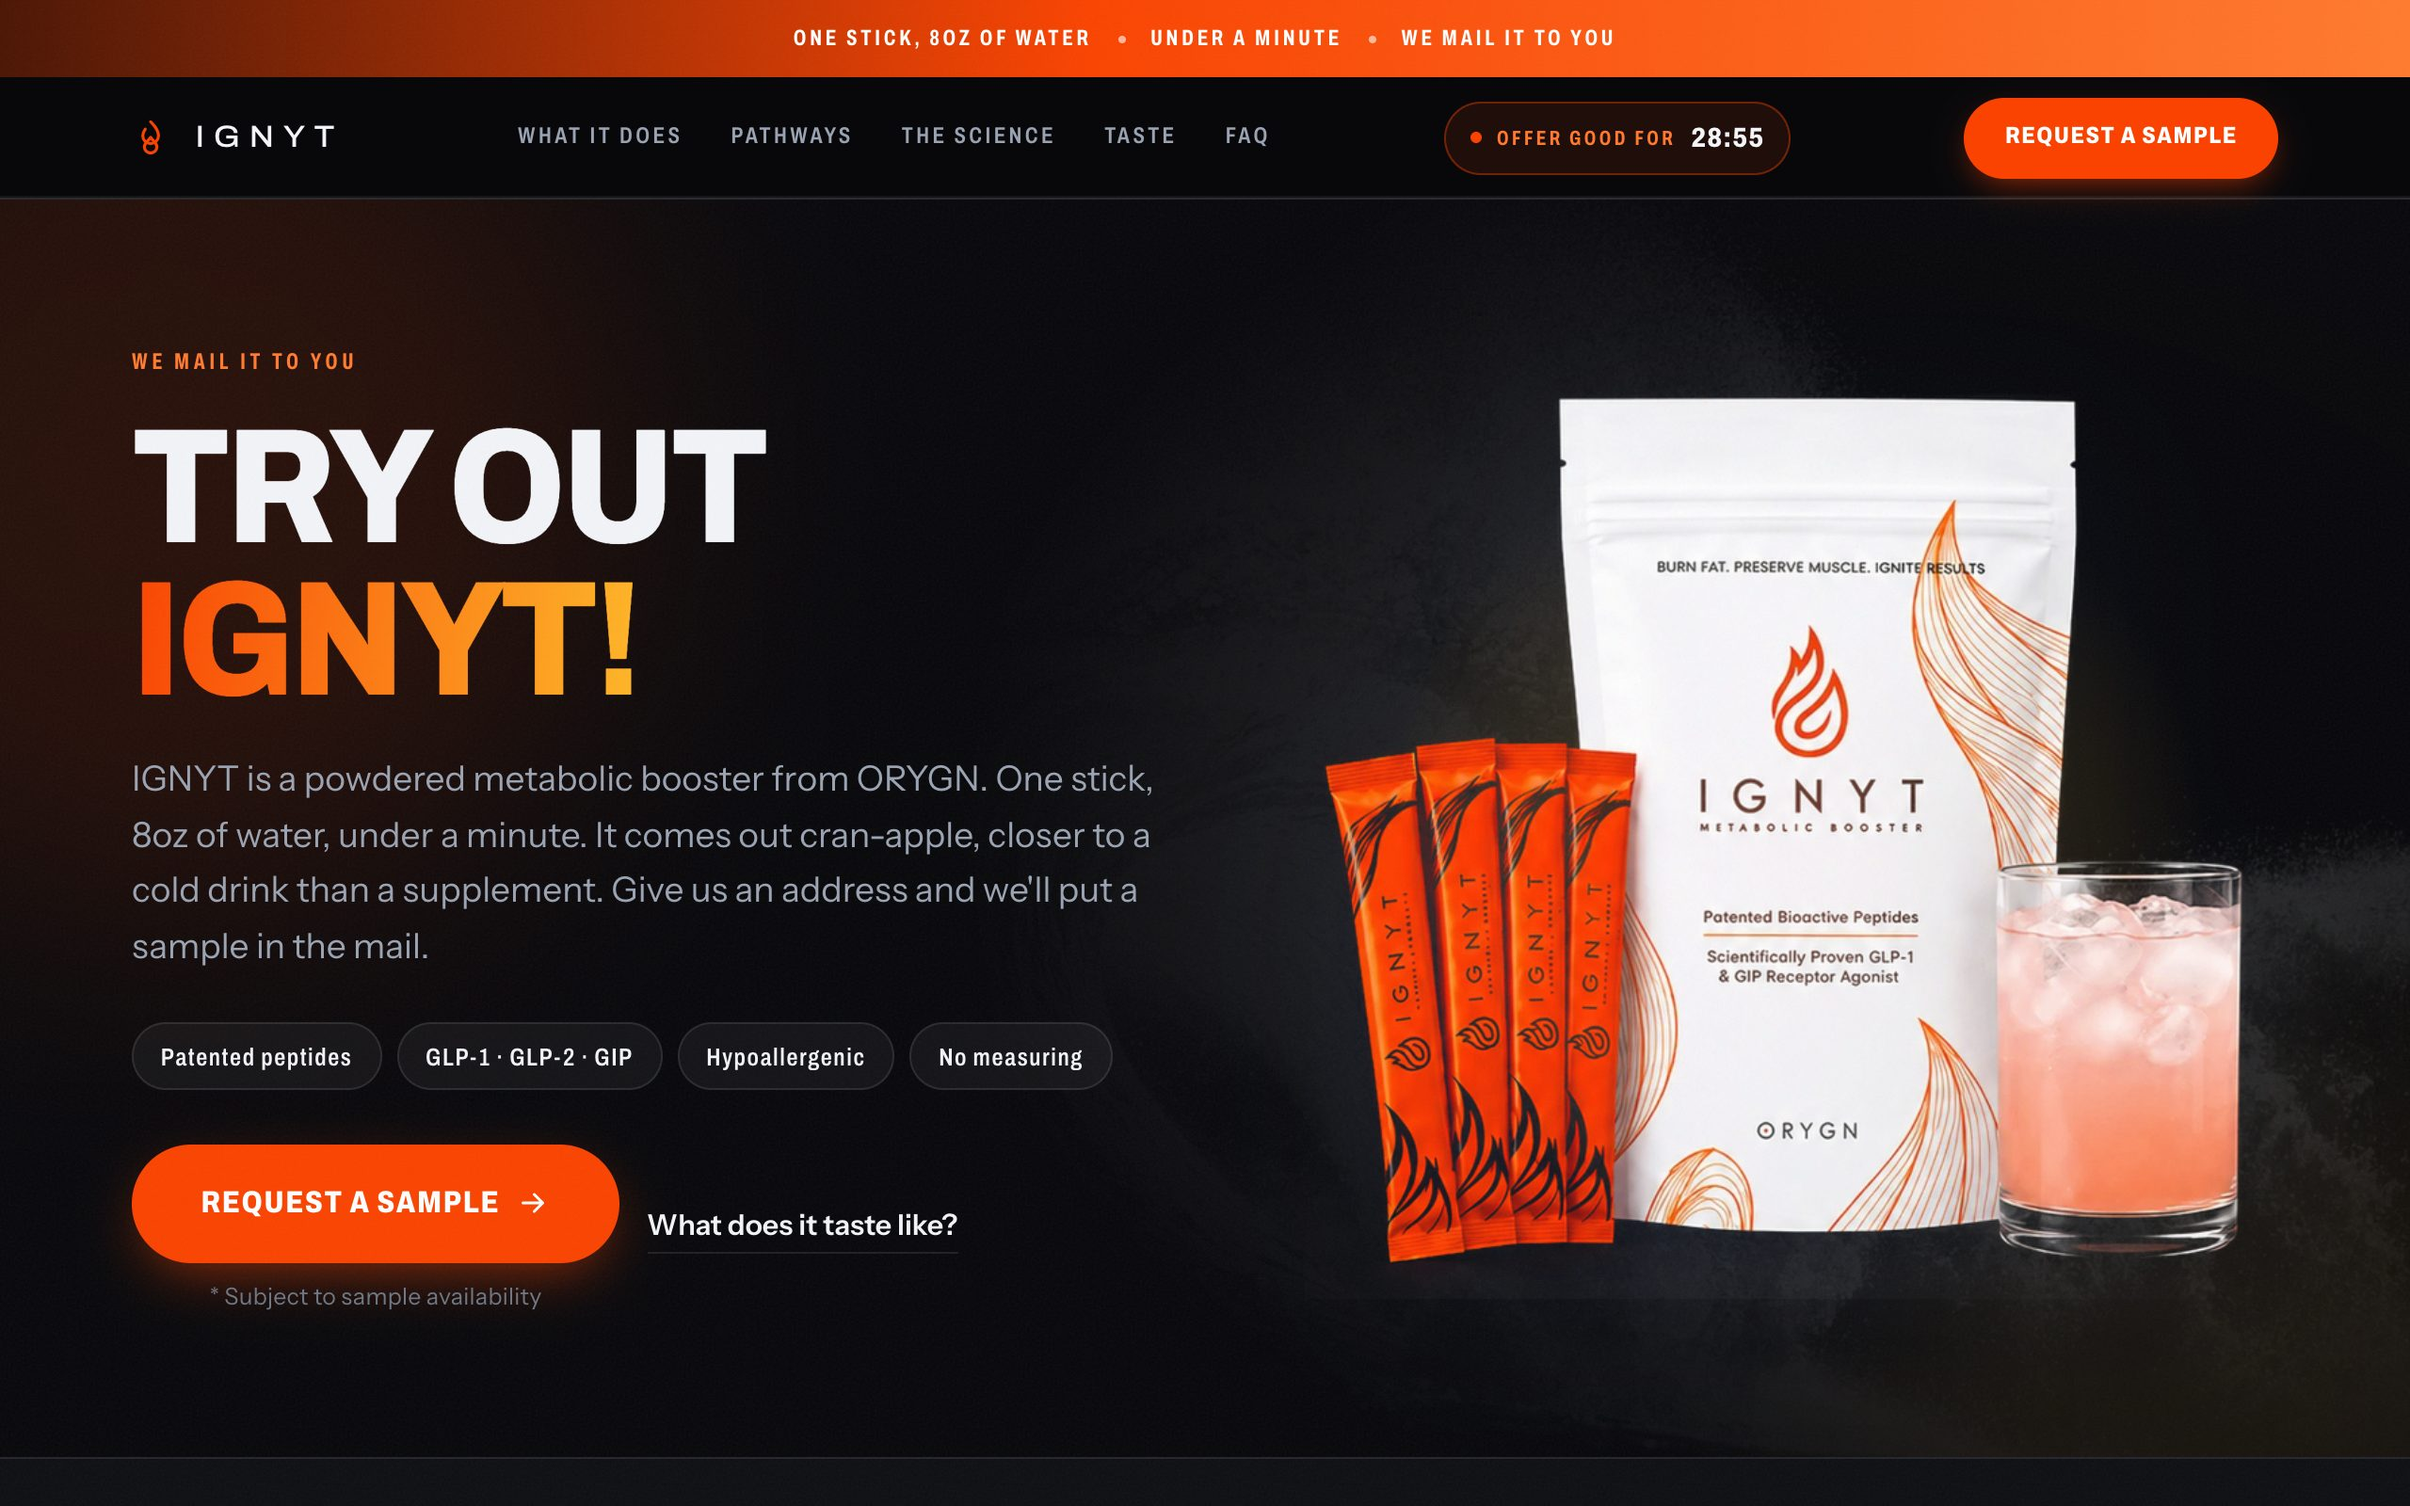
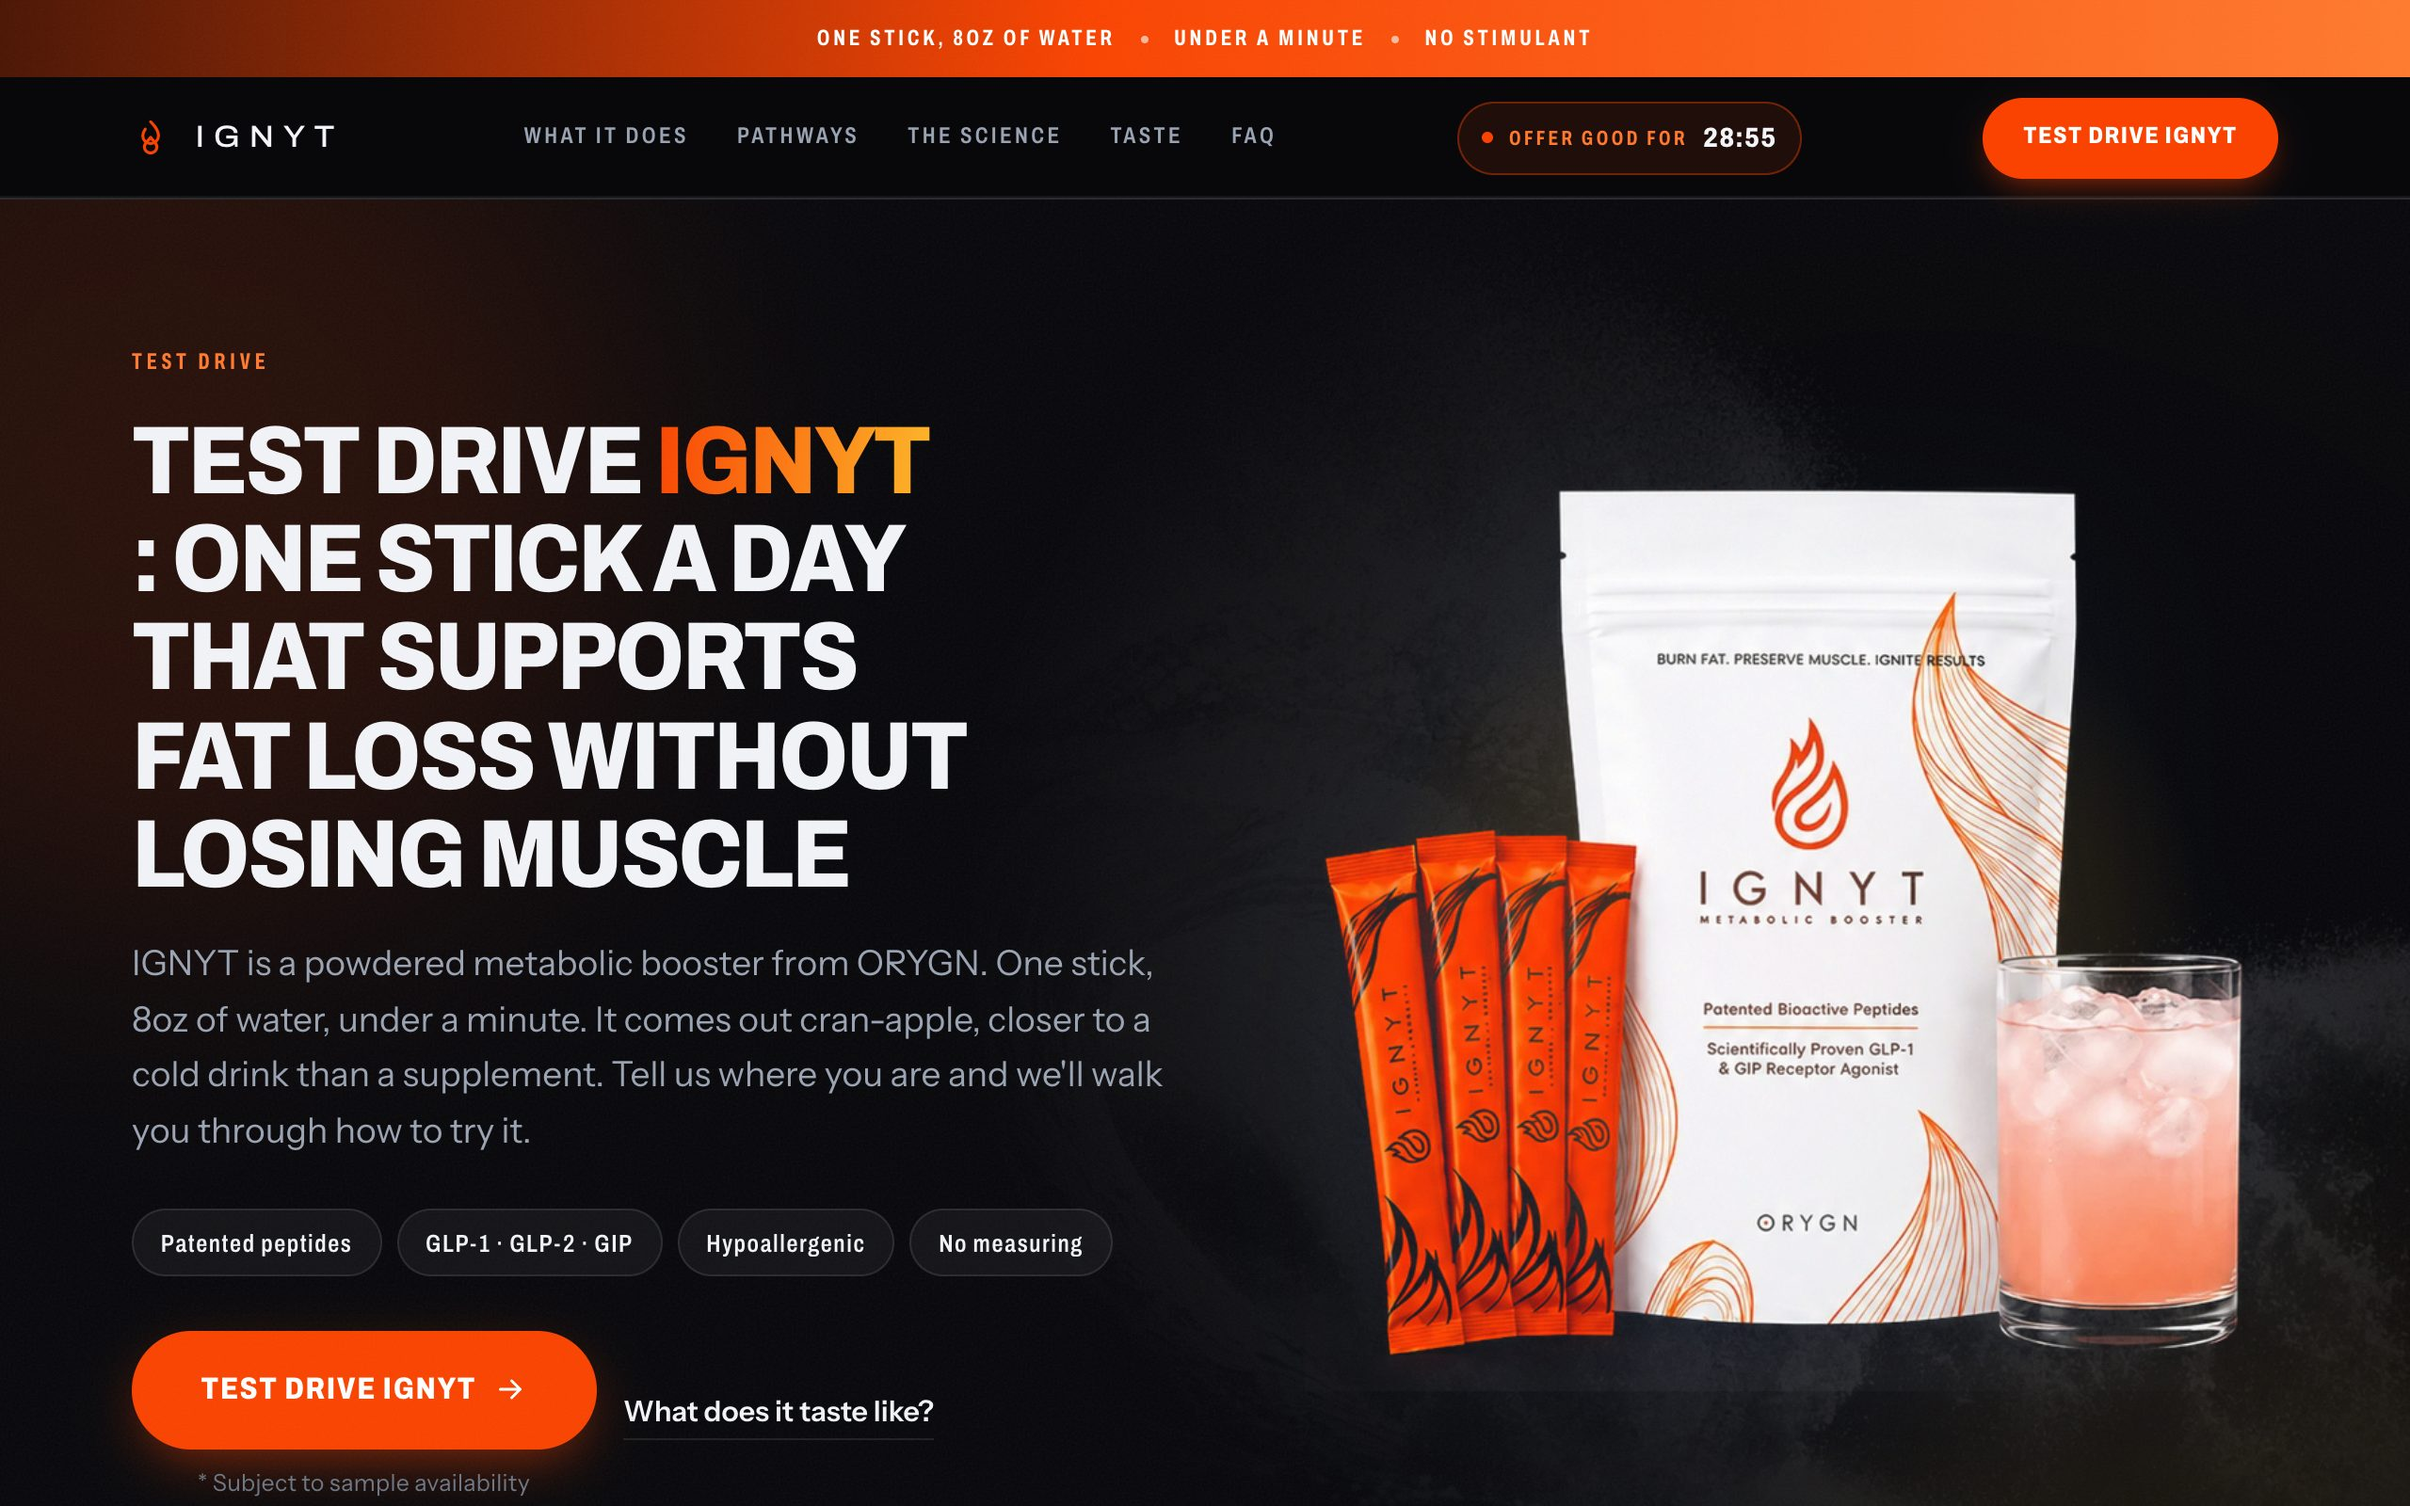
Flow tiles: captions read as labels, and two stale screenshots recaptured
Jess, 2026-09-22: 'the headers describing the steps ... right now they look like
part of the image', and 'the confirmation page image is the old page'. Both true,
and the first has a specific cause: Joe's Figma pass moved the caption ONTO the
screenshot as a 92% translucent card-coloured band, and every one of these
screenshots is a page whose own top is white or cream. A near-transparent cream
band over a cream page has almost no edge.

Three changes, none of them undoing Joe's instruction - the label stays over the
image, bold and centred: opaque background instead of translucent-plus-blur, a
2px brand rule instead of a hairline the same weight as borders inside the
screenshots, and a numbered step chip. The tiles are a real sequence, the arrows
between them already say so, so the number carries information.

Recaptured: foods guide (all three tiles, the confirmation genuinely was the old
page) and the IGNYT opt-in. The IGNYT capture FAILED first and had to be fixed,
which was worth finding: its config still said the opt-in CTA was 'REQUEST A
SAMPLE' and the page now says 'TEST DRIVE IGNYT'. The workout, weight-loss and
side-hustle captures came back byte-identical and were already current.

diff --git a/_shared/funnel-training/v1/funnel-training.css b/_shared/funnel-training/v1/funnel-training.css
@@ -2284,3 +2284,70 @@
   font-variation-settings: "wght" 700;
   color: color-mix(in srgb, var(--sk-ink) 62%, transparent);
 }
+
+
+/* ============================================================
+   ROUND 6 — the flow-tile captions must read as LABELS, not as
+   part of the screenshot.
+
+   Jess, 2026-09-22: "the headers describing the steps ... right now
+   they look like part of the image."
+
+   She is right, and the cause is specific. Joe asked in the Figma
+   pass for the caption to sit ON the image, so it became a 92%
+   translucent card-coloured band with a blur behind it. Every one
+   of these screenshots is a page whose own top is white or cream,
+   so a near-transparent cream band over a cream page has almost no
+   edge: the label and the page it labels are the same colour.
+
+   Three changes, each doing one job, and none of them undoing Joe's
+   instruction - the label stays over the image, bold and centred.
+   ============================================================ */
+
+/* 1. OPAQUE. A translucent band over a pale screenshot is the whole
+      problem; the blur was only ever compensating for it. */
+.sk-ftrain .sk-viz figcaption {
+  background: var(--sk-card);
+  backdrop-filter: none;
+  display: flex;
+  align-items: center;
+  justify-content: center;
+  gap: 9px;
+  padding: 9px 12px;
+  text-align: center;
+}
+
+/* 2. A HARD EDGE in the brand colour. The old 1px hairline in
+      --sk-line is the same weight as borders inside the screenshots
+      themselves, so it read as more screenshot. */
+.sk-ftrain .sk-viz figcaption {
+  border-bottom: 2px solid var(--sk-brand);
+}
+
+/* 3. A STEP NUMBER. These tiles are a real sequence - the arrows
+      between them already say so - so numbering carries information
+      rather than decorating. It is also the single clearest signal
+      that a strip of text is a label and not page content. */
+.sk-ftrain .sk-flowviz { counter-reset: skviz; }
+.sk-ftrain .sk-viz { counter-increment: skviz; }
+.sk-ftrain .sk-viz figcaption::before {
+  content: counter(skviz);
+  flex: none;
+  display: grid;
+  place-items: center;
+  width: 20px;
+  height: 20px;
+  border-radius: 50%;
+  background: var(--sk-brand);
+  color: #FFFFFF;
+  font-size: 11.5px;
+  font-variation-settings: "wght" 800;
+  font-feature-settings: "tnum" 1;
+  line-height: 1;
+}
+
+/* the desktop rule sets flex:1 on the caption to equalise tile heights,
+   which fights the flex layout above once the caption is a row */
+@media (min-width: 900px) {
+  .sk-ftrain .sk-viz figcaption { flex: none; font-size: 12.4px; }
+}
